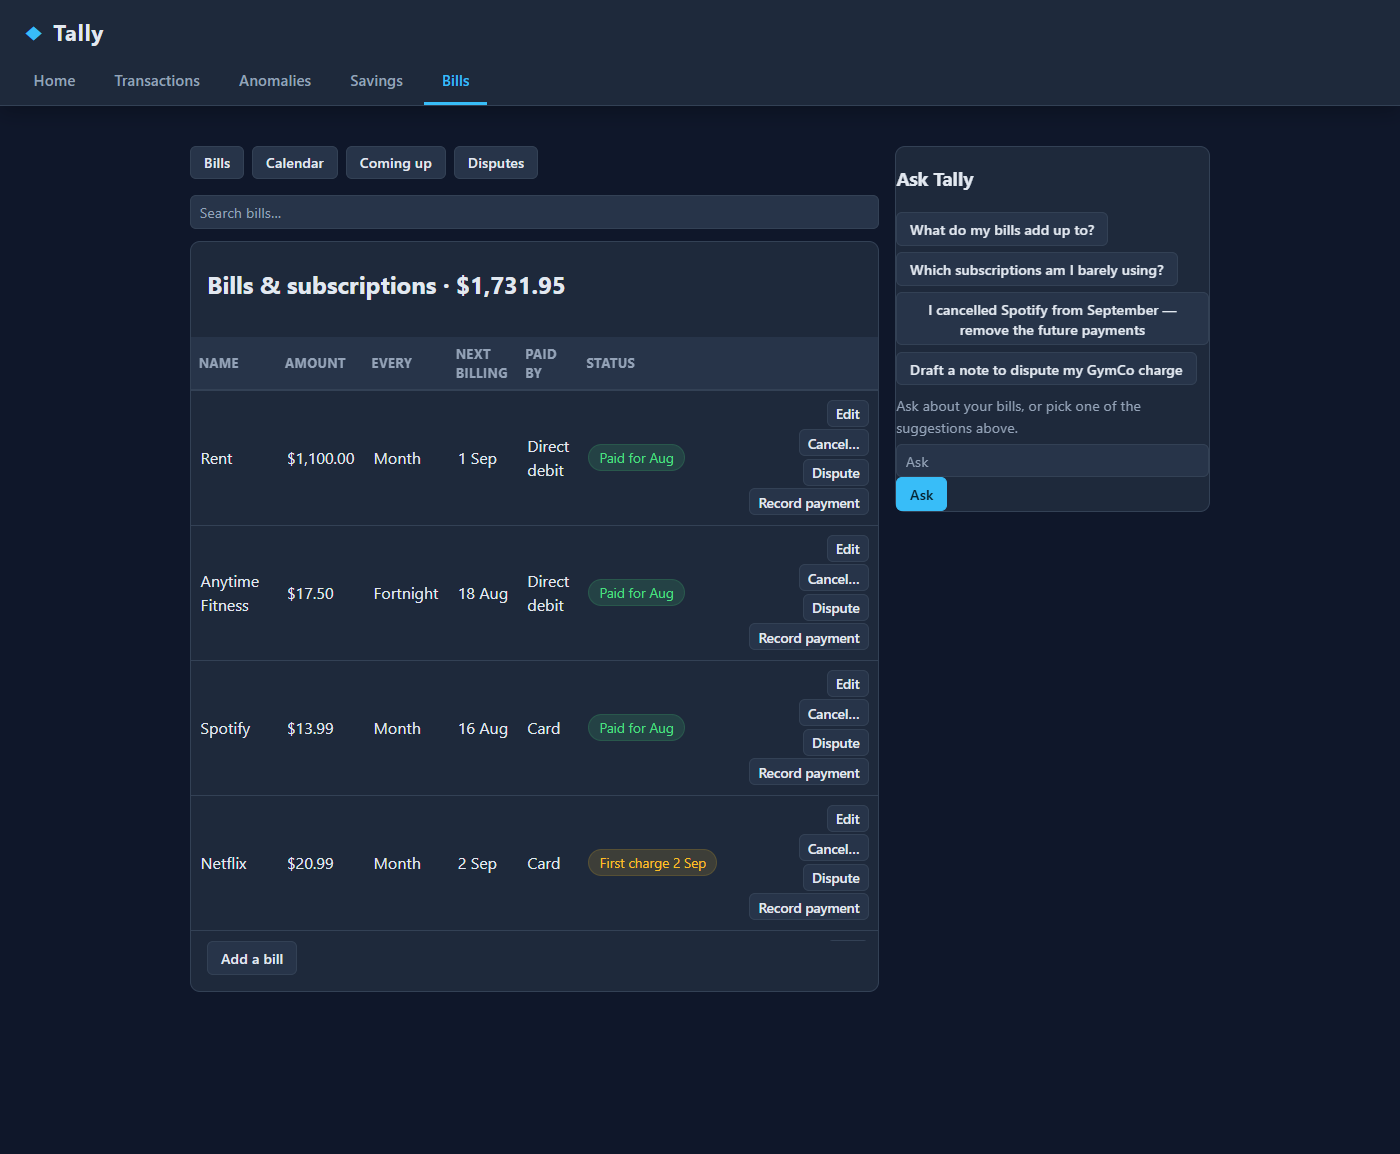
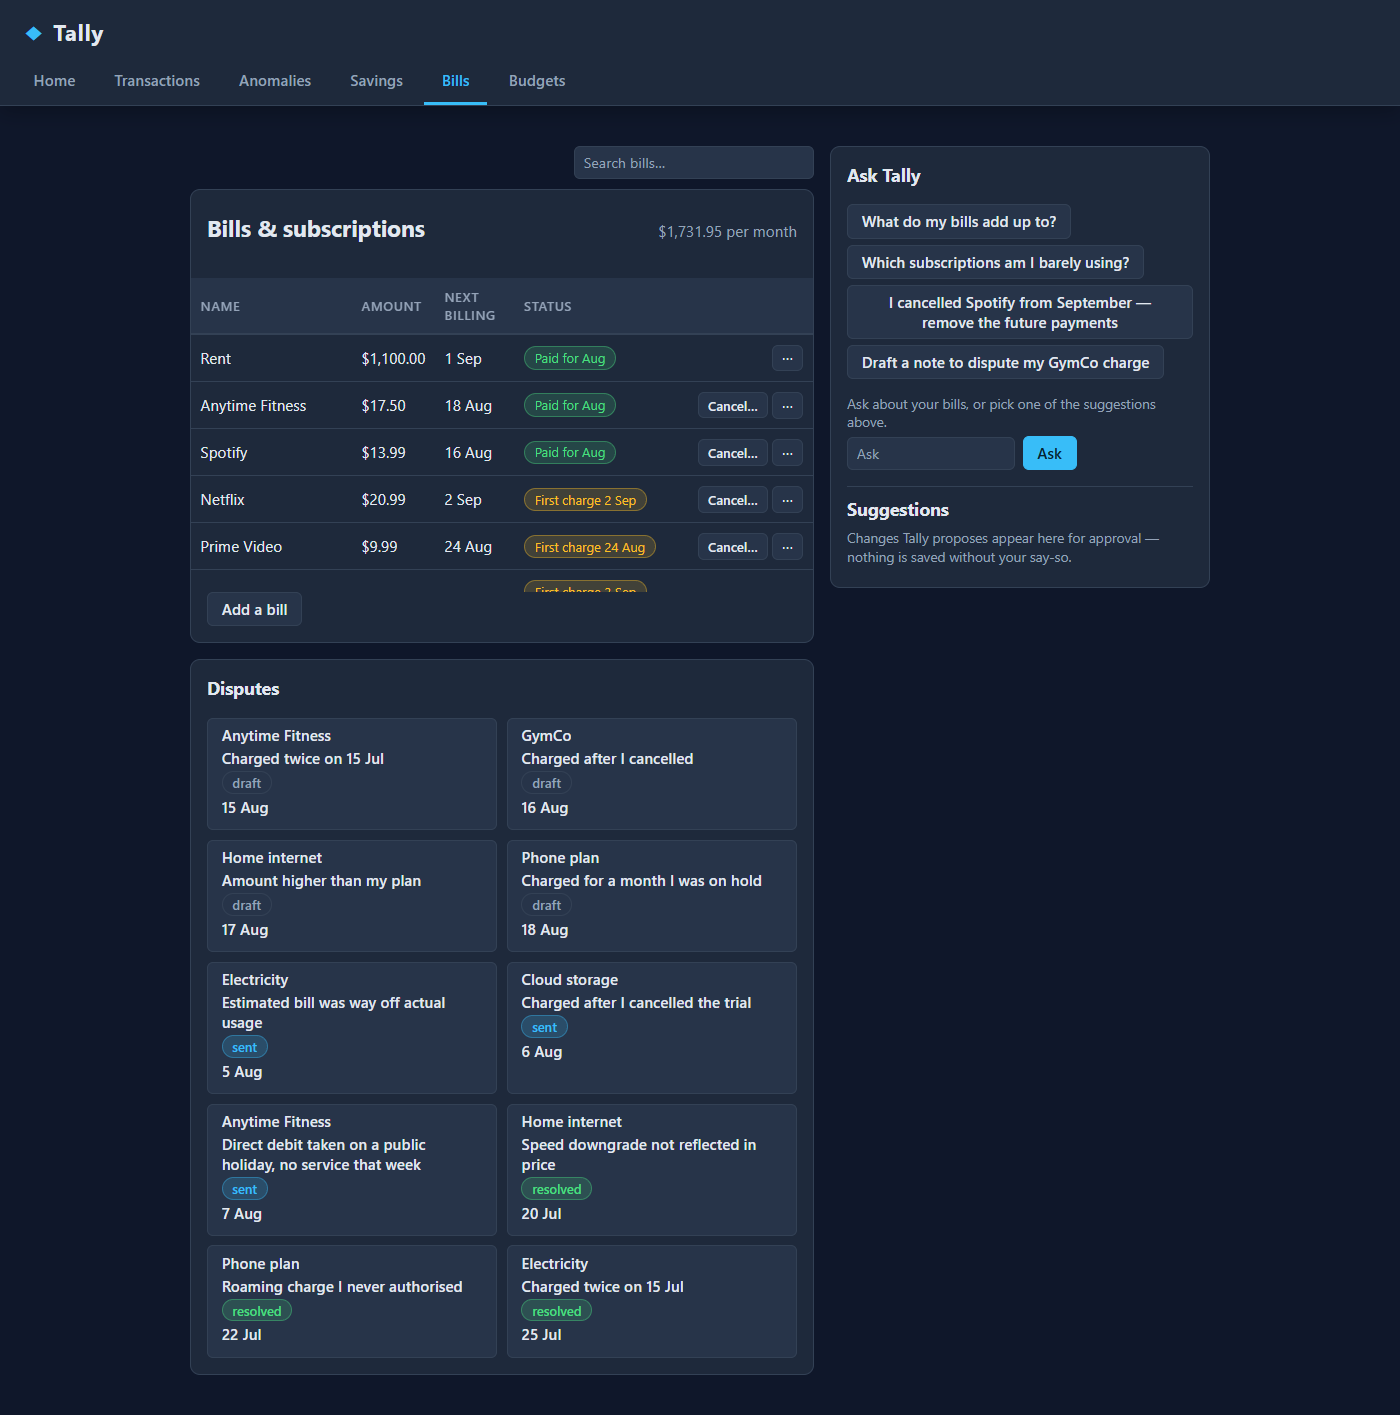
docs(bills): re-shoot 11 R0 screenshots on the current build; record the chat context finding
Screenshots r0-01, 02, 05, 06, 06b, 06c, 12g, 12h, 13, 14, 15 re-captured
7 Sep on aede425 (row menu, Suggestions panel, one-page layout, Disputes tile
grid, ?confirm=6#bills deep link). r0-03/r0-04 cannot be re-shot: #109 removed
the Calendar and Coming-up tabs; README says so.

Kept as recorded, not staged around: r0-06b/c show "Ends 2026-10-01" (the
model's wrong month on the seeded history, first take); "Tally is thinking…"
is permanently visible on pending suggestion cards (.working has no idle-hide
rule); the Ask Tally aside centres against the expanded Disputes column.

evidence/ai/README.md: measured why 06 gets the month wrong — 13 bills in the
prompt moves the target to Cloud storage 7/7 (even at temperature 0), the
seeded history costs the date 3/4, and with neither the answer is right 3/3.

diff --git a/docs/release-0/sophia/README.md b/docs/release-0/sophia/README.md
@@ -28,18 +28,32 @@ under `docs/`; the only documentation beside the code is the feature's own
 Screenshots are numbered to the report's `[SCREENSHOT n]` markers. They were not
 all taken at once, and the dates matter when reading them:
 
-- **r0-01 to r0-06c, r0-13, r0-14, r0-15, r0-12g, r0-12h** — captured 2 Sep on
-  the dark-theme build (#101, commit `0bd8150`), headless Chrome at 1400px,
-  `DEMO_TODAY=2026-08-20` and a fresh seed. **They are not the current
-  interface.** Five UI PRs landed after them that day and the next: #103 (a row
-  menu instead of four buttons — r0-01, r0-02), #105 (proposals become pending
-  suggestions, so the self-applying chat in r0-06c no longer exists), #109 (one
-  page — the Calendar and Coming-up tabs in r0-03 and r0-04 were removed),
-  #117/#118 (layout polish, Disputes as a tile grid — r0-05, r0-06) and #119
-  (deep-link shape — r0-14). Read them as the 2 Sep build; re-shoot before
-  citing any of them as current.
+- **r0-01, r0-02, r0-05, r0-06, r0-06b, r0-06c, r0-13, r0-14, r0-15, r0-12g,
+  r0-12h** — re-captured **7 Sep** on the current build (`aede425`, `main`),
+  headless Chrome at 1400px, `DEMO_TODAY=2026-08-20`, fresh seed, through the
+  same puppeteer flow as the 2 Sep set. They show the row menu (#103), the
+  Suggestions panel (#105), the one-page layout (#109), the Disputes tile grid
+  (#118) and the `?confirm=6#bills` deep-link shape (#119). Order of capture:
+  chat, then dispute, then add-bill — the add-bill shot goes last because a
+  13th bill in the prompt makes `qwen2.5:3b` target the wrong subscription (see
+  `evidence/ai/README.md`, "context, measured 7 Sep"). Three things in these
+  images are defects, kept as recorded rather than staged around:
+  - r0-06b/r0-06c: the proposal reads **"Ends 2026-10-01"** — the model's
+    wrong-month answer on the seeded history, first take, not re-rolled. The
+    correct value is 16 Sep.
+  - r0-06b: "Tally is thinking…" is visible beside Approve/Reject/Suggest while
+    nothing is in flight. `.working` in `bills.css` has no idle-hide rule
+    (htmx only hides elements carrying the `htmx-indicator` class), so the
+    text shows on every pending card. One CSS line; R1.
+  - r0-05/r0-06: the Ask Tally aside sits mid-page rather than at the top of
+    its column once the Disputes panel is expanded — the grid centres it
+    against the taller column.
+- **r0-03 (Calendar) and r0-04 (Coming up)** are still the 2 Sep files
+  (`0bd8150`). They cannot be re-shot: #109 removed both tabs from the page.
+  `/ui/calendar` and `/ui/timeline` still exist and are tested, but nothing
+  renders them. Cite them as the pre-#109 build or drop them.
 - **r0-12e / r0-12f** (1 Sep) are the fluid-layout evidence from #96 and
-  **r0-12g / r0-12h** (2 Sep) are the dark theme in the shell and standalone.
+  **r0-12g / r0-12h** (7 Sep) are the dark theme in the shell and standalone.
   They are kept as the before/after halves of two separate comparisons; do not
   overwrite them with a single "current" capture.
 - **r0-07 (pytest) and r0-10 (compose ps)** were re-captured 7 Sep. r0-07 shows
@@ -68,8 +82,8 @@ all taken at once, and the dates matter when reading them:
 
 `r0-12` and `r0-12b` document a defect that has since been **fixed**. Read them as
 history, with `r0-12c`/`r0-12d` (1 Sep, #89: Bills rendering and a write
-completing inside the shell after the fix) and `r0-12g` (the 2 Sep dark theme in
-the shell) beside them:
+completing inside the shell after the fix) and `r0-12g` (the current dark theme
+in the shell, 7 Sep) beside them:
 
 - `r0-12-shell-bills.png` — the Bills tab in the shared shell as it was on 1 Sep.
   The whole Bills document was swapped into `#content`, so the `<head>` was dropped

diff --git a/docs/release-0/sophia/evidence/ai/README.md b/docs/release-0/sophia/evidence/ai/README.md
@@ -115,6 +115,29 @@ contains a near-identical "I've drafted a dispute letter for GymCo…" assistant
 which is the likeliest reason it reproduces the phrasing. Kept as recorded; a tense
 check on `say` is an R1 item.
 
+### Why `06` gets the month wrong — context, measured 7 Sep
+
+Probed during the screenshot re-shoot by sending the exact `chat_prompt.build()`
+messages the backend sends straight to `qwen2.5:3b` (`/api/chat`, `format: json`),
+varying only the bill list and the history, on the Spotify sentence:
+
+| Bills in the prompt | History | Target `id` | `end_date` |
+|---|---|---|---|
+| 13 (seed + one added bill) | 10 seeded turns | **12, Cloud storage** — 7 of 7, incl. temperature 0 | 2026-09-16 |
+| 12 (seed) | 10 seeded turns | 3, Spotify — 4 of 4 | wrong month in 3 of 4 (1 Oct, 16 Oct, 3 Oct, 15 Sep) |
+| 12 (seed) | none | 3, Spotify — 3 of 3 | 2026-09-16 — 3 of 3 |
+
+Two separate degradations, then. The seeded chat history is what costs the date
+(its assistant turn on Spotify talks about "October's estimate"), and one extra
+bill row is enough to move the target to the wrong subscription — with the reply
+sometimes still saying "ending Spotify" while the proposal card says "Update Cloud
+storage". The vetting in `services/chat.py` catches a *new-bill* sentence over an
+update, not a wrong target on a cancel, so that proposal reaches the Approve
+button. The 7 Sep `06` was captured on 12 bills with the seeded history, which is
+the middle row. Terminal-only, not saved as files; R1 items: trim or summarise
+history before the parse, and vet the proposal's target against any bill named in
+`say`.
+
 ### What tuning changed this
 
 `chat_prompt.py` was rewritten from a bare instruction line to a compact
